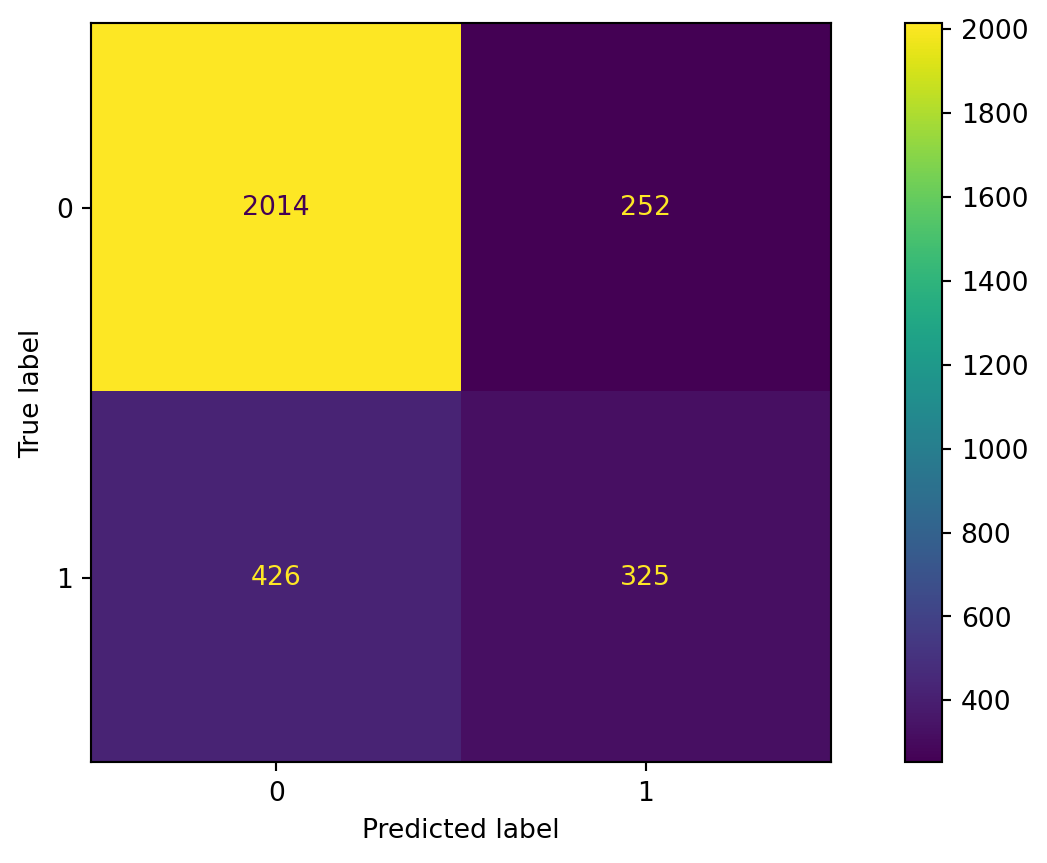
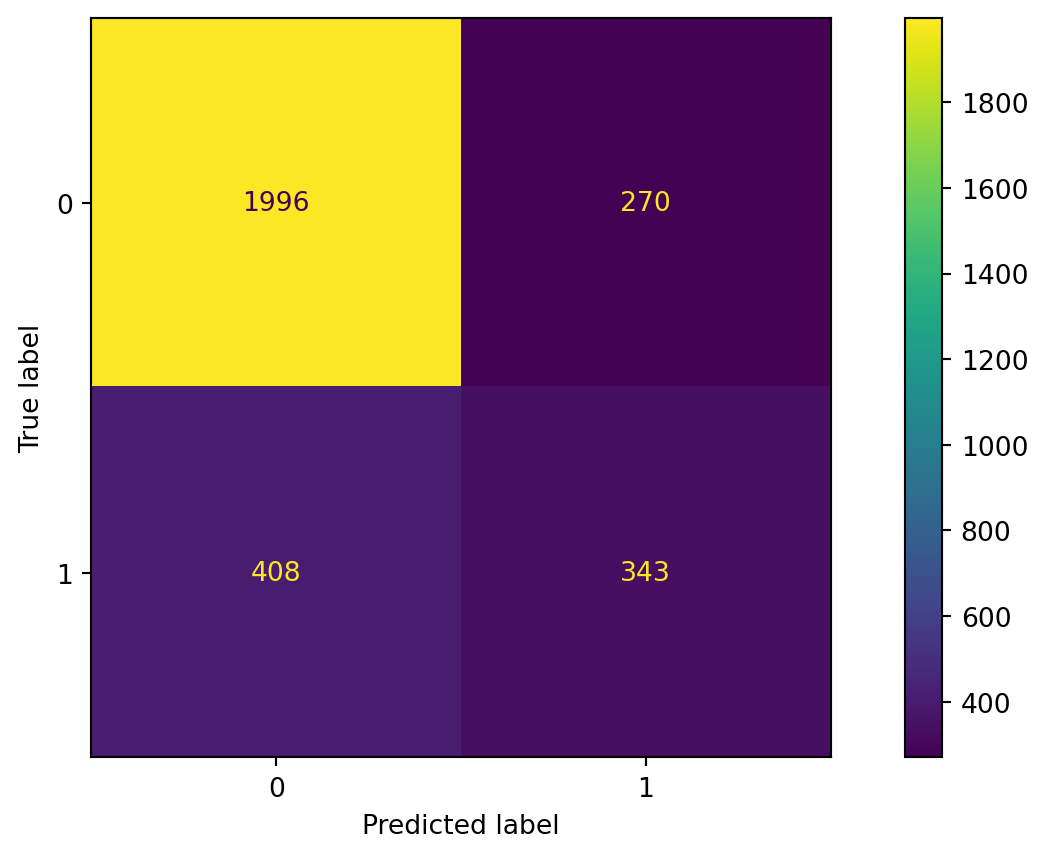
Update ensemble material
Include boosting

diff --git a/docs/Classification/EnsembleMethods.slides.html b/docs/Classification/EnsembleMethods.slides.html
@@ -230,7 +230,7 @@ Alan R. Vazquez
 <section id="load-the-libraries" class="slide level2">
 <h2>Load the libraries</h2>
 <p>Before we start, let’s import the data science libraries into Python.</p>
-<div id="a94a630a" class="cell" data-execution_count="1">
+<div id="87308f43" class="cell" data-execution_count="1">
 <div class="code-copy-outer-scaffold"><div class="sourceCode cell-code" id="cb1"><pre class="sourceCode numberSource python number-lines code-with-copy"><code class="sourceCode python"><span id="cb1-1"><a></a><span class="co"># Importing necessary libraries</span></span>
 <span id="cb1-2"><a></a><span class="im">import</span> pandas <span class="im">as</span> pd</span>
 <span id="cb1-3"><a></a><span class="im">import</span> matplotlib.pyplot <span class="im">as</span> plt</span>
@@ -238,10 +238,11 @@ Alan R. Vazquez
 <span id="cb1-5"><a></a><span class="im">from</span> sklearn.model_selection <span class="im">import</span> train_test_split</span>
 <span id="cb1-6"><a></a><span class="im">from</span> sklearn.tree <span class="im">import</span> DecisionTreeClassifier, plot_tree</span>
 <span id="cb1-7"><a></a><span class="im">from</span> sklearn.ensemble <span class="im">import</span> BaggingClassifier, RandomForestClassifier</span>
-<span id="cb1-8"><a></a><span class="im">from</span> sklearn.neighbors <span class="im">import</span> KNeighborsClassifier</span>
-<span id="cb1-9"><a></a><span class="im">from</span> sklearn.preprocessing <span class="im">import</span> StandardScaler</span>
-<span id="cb1-10"><a></a><span class="im">from</span> sklearn.metrics <span class="im">import</span> confusion_matrix, ConfusionMatrixDisplay </span>
-<span id="cb1-11"><a></a><span class="im">from</span> sklearn.metrics <span class="im">import</span> accuracy_score, recall_score, precision_score</span></code></pre></div><button title="Copy to Clipboard" class="code-copy-button"><i class="bi"></i></button></div>
+<span id="cb1-8"><a></a><span class="im">from</span> sklearn.ensemble <span class="im">import</span> GradientBoostingClassifier</span>
+<span id="cb1-9"><a></a><span class="im">from</span> sklearn.neighbors <span class="im">import</span> KNeighborsClassifier</span>
+<span id="cb1-10"><a></a><span class="im">from</span> sklearn.preprocessing <span class="im">import</span> StandardScaler</span>
+<span id="cb1-11"><a></a><span class="im">from</span> sklearn.metrics <span class="im">import</span> confusion_matrix, ConfusionMatrixDisplay </span>
+<span id="cb1-12"><a></a><span class="im">from</span> sklearn.metrics <span class="im">import</span> accuracy_score, recall_score, precision_score</span></code></pre></div><button title="Copy to Clipboard" class="code-copy-button"><i class="bi"></i></button></div>
 </div>
 <p>Here, we use specific functions from the <strong>pandas</strong>, <strong>matplotlib</strong>, <strong>seaborn</strong> and <strong>sklearn</strong> libraries in Python.</p>
 </section>
@@ -361,13 +362,13 @@ Alan R. Vazquez
 </section>
 <section id="read-the-dataset" class="slide level2">
 <h2>Read the dataset</h2>
-<div id="ffb93ef0" class="cell" data-execution_count="2">
+<div id="5d351bcd" class="cell" data-execution_count="2">
 <div class="code-copy-outer-scaffold"><div class="sourceCode cell-code" id="cb2"><pre class="sourceCode numberSource python number-lines code-with-copy"><code class="sourceCode python"><span id="cb2-1"><a></a><span class="co"># Load the data</span></span>
 <span id="cb2-2"><a></a>Adult_data <span class="op">=</span> pd.read_excel(<span class="st">'AdultReduced.xlsx'</span>)</span>
 <span id="cb2-3"><a></a></span>
 <span id="cb2-4"><a></a><span class="co"># Preview the data.</span></span>
 <span id="cb2-5"><a></a>Adult_data.head(<span class="dv">3</span>)</span></code></pre></div><button title="Copy to Clipboard" class="code-copy-button"><i class="bi"></i></button></div>
-<div class="cell-output cell-output-display" data-execution_count="2">
+<div class="cell-output cell-output-display" data-execution_count="59">
 <div>
 <style scoped="">
     .dataframe tbody tr th:only-of-type {
@@ -475,7 +476,7 @@ Alan R. Vazquez
 <li>education.num: number of years of education.</li>
 <li>hours.per.week: Number of work hours per week.</li>
 </ul>
-<div id="801c6eb2" class="cell" data-execution_count="3">
+<div id="d0c2b0e4" class="cell" data-execution_count="3">
 <div class="code-copy-outer-scaffold"><div class="sourceCode cell-code" id="cb3"><pre class="sourceCode numberSource python number-lines code-with-copy"><code class="sourceCode python"><span id="cb3-1"><a></a><span class="co"># Choose the predictors.</span></span>
 <span id="cb3-2"><a></a>X_full <span class="op">=</span> Adult_data.<span class="bu">filter</span>([<span class="st">'age'</span>, <span class="st">'sex'</span>, <span class="st">'race'</span>, <span class="st">'education.num'</span>, </span>
 <span id="cb3-3"><a></a>                            <span class="st">'hours.per.week'</span>])</span></code></pre></div><button title="Copy to Clipboard" class="code-copy-button"><i class="bi"></i></button></div>
@@ -485,7 +486,7 @@ Alan R. Vazquez
 <h2>Pre-processing for categorical predictors</h2>
 <p><br></p>
 <p>Unfortunately, bagging does not work with categorical predictors. We must transform them into dummy variables using the code below.</p>
-<div id="073490b5" class="cell" data-execution_count="4">
+<div id="1ef23662" class="cell" data-execution_count="4">
 <div class="code-copy-outer-scaffold"><div class="sourceCode cell-code" id="cb4"><pre class="sourceCode numberSource python number-lines code-with-copy"><code class="sourceCode python"><span id="cb4-1"><a></a><span class="co"># Turn categorical predictors into dummy variables.</span></span>
 <span id="cb4-2"><a></a>X_dummies <span class="op">=</span> pd.get_dummies(X_full[[<span class="st">'sex'</span>, <span class="st">'race'</span>]])</span>
 <span id="cb4-3"><a></a></span>
@@ -499,11 +500,11 @@ Alan R. Vazquez
 <section id="set-the-target-class" class="slide level2">
 <h2>Set the target class</h2>
 <p>Let’s set the <strong>target class</strong> and the <strong>reference class</strong> using the <code>get_dummies()</code> function.</p>
-<div id="b9c3ea4d" class="cell" data-execution_count="5">
+<div id="8f3df567" class="cell" data-execution_count="5">
 <div class="code-copy-outer-scaffold"><div class="sourceCode cell-code" id="cb5"><pre class="sourceCode numberSource python number-lines code-with-copy"><code class="sourceCode python"><span id="cb5-1"><a></a>Y <span class="op">=</span> Adult_data.<span class="bu">filter</span>([<span class="st">'income'</span>])</span>
 <span id="cb5-2"><a></a>Y_dummies <span class="op">=</span> pd.get_dummies(Y, dtype <span class="op">=</span> <span class="st">'int'</span>)</span>
 <span id="cb5-3"><a></a>Y_dummies.head(<span class="dv">4</span>)</span></code></pre></div><button title="Copy to Clipboard" class="code-copy-button"><i class="bi"></i></button></div>
-<div class="cell-output cell-output-display" data-execution_count="5">
+<div class="cell-output cell-output-display" data-execution_count="62">
 <div>
 <style scoped="">
     .dataframe tbody tr th:only-of-type {
@@ -559,12 +560,12 @@ Alan R. Vazquez
 <h2></h2>
 <p><br><br></p>
 <p>Here we’ll use the <strong>large</strong> target class. So, let’s use the corresponding column as our response variable.</p>
-<div id="f597a7ce" class="cell" data-execution_count="6">
+<div id="b007fa2d" class="cell" data-execution_count="6">
 <div class="code-copy-outer-scaffold"><div class="sourceCode cell-code" id="cb6"><pre class="sourceCode numberSource python number-lines code-with-copy"><code class="sourceCode python"><span id="cb6-1"><a></a><span class="co"># Choose target category.</span></span>
 <span id="cb6-2"><a></a>Y_target <span class="op">=</span> Y_dummies[<span class="st">'income_large'</span>]</span>
 <span id="cb6-3"><a></a></span>
 <span id="cb6-4"><a></a>Y_target.head()</span></code></pre></div><button title="Copy to Clipboard" class="code-copy-button"><i class="bi"></i></button></div>
-<div class="cell-output cell-output-display" data-execution_count="6">
+<div class="cell-output cell-output-display" data-execution_count="63">
 <pre><code>0    0
 1    0
 2    0
@@ -578,7 +579,7 @@ Name: income_large, dtype: int64</code></pre>
 <h2>Training and validation datasets</h2>
 <p><br></p>
 <p>To evaluate a model’s performance on unobserved data, we split the current dataset into training and validation datasets. To do this, we use <code>train_test_split()</code> from <strong>scikit-learn</strong>.</p>
-<div id="19b7ba04" class="cell" data-execution_count="7">
+<div id="14d9253e" class="cell" data-execution_count="7">
 <div class="code-copy-outer-scaffold"><div class="sourceCode cell-code" id="cb8"><pre class="sourceCode numberSource python number-lines code-with-copy"><code class="sourceCode python"><span id="cb8-1"><a></a><span class="co"># Split into training and validation</span></span>
 <span id="cb8-2"><a></a>X_train, X_valid, Y_train, Y_valid <span class="op">=</span> train_test_split(X_full, Y_target,</span>
 <span id="cb8-3"><a></a>                                                      stratify <span class="op">=</span> Y_target,</span>
@@ -591,7 +592,7 @@ Name: income_large, dtype: int64</code></pre>
 <p><br></p>
 <p>We define a bagging algorithm for classification using the <code>BaggingClassifier</code> function from <strong>scikit-learn</strong>.</p>
 <p>The <code>n_estimators</code> argument is the number of decision trees to generate in bagging. Ideally, it should be high, around 500.</p>
-<div id="77d7913d" class="cell" data-execution_count="8">
+<div id="67a5f78a" class="cell" data-execution_count="8">
 <div class="code-copy-outer-scaffold"><div class="sourceCode cell-code" id="cb9"><pre class="sourceCode numberSource python number-lines code-with-copy"><code class="sourceCode python"><span id="cb9-1"><a></a><span class="co"># Set the bagging algorithm.</span></span>
 <span id="cb9-2"><a></a>Baggingalgorithm <span class="op">=</span> BaggingClassifier(n_estimators <span class="op">=</span> <span class="dv">500</span>, </span>
 <span id="cb9-3"><a></a>                                     random_state <span class="op">=</span> <span class="dv">59227</span>)</span>
@@ -605,24 +606,24 @@ Name: income_large, dtype: int64</code></pre>
 <h2>Predictions from bagging</h2>
 <p><br><br><br></p>
 <p>Predict the classes using bagging on the validation dataset.</p>
-<div id="f9941f4a" class="cell" data-execution_count="9">
+<div id="3f1c9074" class="cell" data-execution_count="9">
 <div class="code-copy-outer-scaffold"><div class="sourceCode cell-code" id="cb10"><pre class="sourceCode numberSource python number-lines code-with-copy"><code class="sourceCode python"><span id="cb10-1"><a></a>predicted_class <span class="op">=</span> Baggingalgorithm.predict(X_valid)</span>
 <span id="cb10-2"><a></a></span>
 <span id="cb10-3"><a></a>predicted_class</span></code></pre></div><button title="Copy to Clipboard" class="code-copy-button"><i class="bi"></i></button></div>
-<div class="cell-output cell-output-display" data-execution_count="9">
-<pre><code>array([0, 0, 1, ..., 0, 0, 0])</code></pre>
+<div class="cell-output cell-output-display" data-execution_count="66">
+<pre><code>array([0, 0, 0, ..., 0, 0, 0])</code></pre>
 </div>
 </div>
 </section>
 <section id="confusion-matrix" class="slide level2">
 <h2>Confusion matrix</h2>
-<div id="69201ad5" class="cell" data-execution_count="10">
+<div id="bb817c82" class="cell" data-execution_count="10">
 <div class="code-copy-outer-scaffold"><div class="sourceCode cell-code" id="cb12"><pre class="sourceCode numberSource python number-lines code-with-copy"><code class="sourceCode python"><span id="cb12-1"><a></a>cm <span class="op">=</span> confusion_matrix(Y_valid, predicted_class)</span>
 <span id="cb12-2"><a></a>ConfusionMatrixDisplay(cm).plot()</span></code></pre></div><button title="Copy to Clipboard" class="code-copy-button"><i class="bi"></i></button></div>
 <div class="cell-output cell-output-display">
 <div class="quarto-figure quarto-figure-center">
 <figure>
-<p><img data-src="EnsembleMethods_files/figure-revealjs/cell-11-output-1.png" class="quarto-figure quarto-figure-center" width="524" height="432"></p>
+<p><img data-src="EnsembleMethods_files/figure-revealjs/cell-11-output-1.png" class="quarto-figure quarto-figure-center" width="524" height="429"></p>
 </figure>
 </div>
 </div>
@@ -632,7 +633,7 @@ Name: income_large, dtype: int64</code></pre>
 <h2>Accuracy</h2>
 <p><br><br></p>
 <p>The accuracy of the bagging classifier is 78%.</p>
-<div id="c97e8049" class="cell" data-execution_count="11">
+<div id="d0f355e4" class="cell" data-execution_count="11">
 <div class="code-copy-outer-scaffold"><div class="sourceCode cell-code" id="cb13"><pre class="sourceCode numberSource python number-lines code-with-copy"><code class="sourceCode python"><span id="cb13-1"><a></a><span class="co"># Compute accuracy.</span></span>
 <span id="cb13-2"><a></a>accuracy <span class="op">=</span> accuracy_score(Y_valid, predicted_class)</span>
 <span id="cb13-3"><a></a></span>
@@ -647,19 +648,19 @@ Name: income_large, dtype: int64</code></pre>
 <h2>A single deep tree</h2>
 <p><br><br></p>
 <p>To compare the bagging, let’s use a single deep tree.</p>
-<div id="386b1603" class="cell" data-execution_count="12">
+<div id="4b686ee6" class="cell" data-execution_count="12">
 <div class="code-copy-outer-scaffold"><div class="sourceCode cell-code" id="cb15"><pre class="sourceCode numberSource python number-lines code-with-copy"><code class="sourceCode python"><span id="cb15-1"><a></a>clf_simple <span class="op">=</span> DecisionTreeClassifier(min_samples_leaf <span class="op">=</span> <span class="dv">5</span>, ccp_alpha<span class="op">=</span><span class="fl">0.0</span>, </span>
 <span id="cb15-2"><a></a>                                    random_state<span class="op">=</span><span class="dv">507134</span>)</span>
 <span id="cb15-3"><a></a></span>
 <span id="cb15-4"><a></a>clf_simple.fit(X_train, Y_train)</span></code></pre></div><button title="Copy to Clipboard" class="code-copy-button"><i class="bi"></i></button></div>
 </div>
 <p>Let’s compute the accuracy of the pruned tree.</p>
-<div id="514685d2" class="cell" data-execution_count="13">
+<div id="5fcd11cd" class="cell" data-execution_count="13">
 <div class="code-copy-outer-scaffold"><div class="sourceCode cell-code" id="cb16"><pre class="sourceCode numberSource python number-lines code-with-copy"><code class="sourceCode python"><span id="cb16-1"><a></a>single_tree_Y_pred <span class="op">=</span> clf_simple.predict(X_valid)</span>
 <span id="cb16-2"><a></a>accuracy <span class="op">=</span> accuracy_score(Y_valid, single_tree_Y_pred)</span>
 <span id="cb16-3"><a></a><span class="bu">print</span>( <span class="bu">round</span>(accuracy, <span class="dv">2</span>) )</span></code></pre></div><button title="Copy to Clipboard" class="code-copy-button"><i class="bi"></i></button></div>
 <div class="cell-output cell-output-stdout">
-<pre><code>0.78</code></pre>
+<pre><code>0.79</code></pre>
 </div>
 </div>
 </section>
@@ -747,7 +748,7 @@ Name: income_large, dtype: int64</code></pre>
 <h2>Random Forest in Python</h2>
 <p><br></p>
 <p>In Python, we define a RandomForest algorithm for classification using the <code>RandomForestClassifier</code> function from <strong>scikit-learn</strong>. The <code>n_estimators</code> argument is the number of decision trees to generate in the RandomForest, and <code>random_state</code> allows you to reprudce the results.</p>
-<div id="47622c3a" class="cell" data-execution_count="14">
+<div id="637bdeeb" class="cell" data-execution_count="14">
 <div class="code-copy-outer-scaffold"><div class="sourceCode cell-code" id="cb18"><pre class="sourceCode numberSource python number-lines code-with-copy"><code class="sourceCode python"><span id="cb18-1"><a></a><span class="co"># Set the bagging algorithm.</span></span>
 <span id="cb18-2"><a></a>RFalgorithm <span class="op">=</span> RandomForestClassifier(n_estimators <span class="op">=</span> <span class="dv">500</span>, </span>
 <span id="cb18-3"><a></a>                                     max_features <span class="op">=</span> <span class="st">'sqrt'</span>,</span>
@@ -760,7 +761,7 @@ Name: income_large, dtype: int64</code></pre>
 <section id="confusion-matrix-1" class="slide level2">
 <h2>Confusion matrix</h2>
 <p>Evaluate the performance of random forest.</p>
-<div id="ca63391a" class="cell" data-execution_count="15">
+<div id="c5cb071a" class="cell" data-execution_count="15">
 <details class="code-fold">
 <summary>Code</summary>
 <div class="code-copy-outer-scaffold"><div class="sourceCode cell-code" id="cb19"><pre class="sourceCode numberSource python number-lines code-with-copy"><code class="sourceCode python"><span id="cb19-1"><a></a><span class="co"># Predict class.</span></span>
@@ -775,7 +776,7 @@ Name: income_large, dtype: int64</code></pre>
 <div class="cell-output cell-output-display">
 <div class="quarto-figure quarto-figure-center">
 <figure>
-<p><img data-src="EnsembleMethods_files/figure-revealjs/cell-16-output-1.png" class="quarto-figure quarto-figure-center" width="524" height="429"></p>
+<p><img data-src="EnsembleMethods_files/figure-revealjs/cell-16-output-1.png" class="quarto-figure quarto-figure-center" width="524" height="433"></p>
 </figure>
 </div>
 </div>
@@ -785,7 +786,7 @@ Name: income_large, dtype: int64</code></pre>
 <h2>Accuracy</h2>
 <p><br><br></p>
 <p>The accuracy of the random forest classifier is 79%.</p>
-<div id="375ceec7" class="cell" data-execution_count="16">
+<div id="59dae4e5" class="cell" data-execution_count="16">
 <div class="code-copy-outer-scaffold"><div class="sourceCode cell-code" id="cb20"><pre class="sourceCode numberSource python number-lines code-with-copy"><code class="sourceCode python"><span id="cb20-1"><a></a><span class="co"># Compute accuracy.</span></span>
 <span id="cb20-2"><a></a>accuracy <span class="op">=</span> accuracy_score(Y_valid, RF_predicted)</span>
 <span id="cb20-3"><a></a></span>
@@ -888,6 +889,59 @@ Name: income_large, dtype: int64</code></pre>
 <p><br></p>
 
 <img data-src="images/clipboard-3805820570.png" class="quarto-figure quarto-figure-center r-stretch"><p><a href="https://towardsdatascience.com/understanding-adaboost-for-decision-tree-ff8f07d2851" class="uri">https://towardsdatascience.com/understanding-adaboost-for-decision-tree-ff8f07d2851</a></p>
+</section>
+<section id="boosting-in-python" class="slide level2">
+<h2>Boosting in Python</h2>
+<div style="font-size: 90%;">
+<p>In Python, we define a boosting algorithm for classification using the <code>GradientBoostingClassifier</code> function from <strong>scikit-learn</strong>. The <code>n_estimators</code> argument specifies the number of boosting stages (i.e., the number of trees built sequentially), the <code>learning_rate</code> controls how much each tree contributes to the final model, and <code>max_depth</code> limits the depth of each individual decision tree.</p>
+</div>
+<div id="2e43fdd5" class="cell" data-execution_count="17">
+<div class="code-copy-outer-scaffold"><div class="sourceCode cell-code" id="cb22"><pre class="sourceCode numberSource python number-lines code-with-copy"><code class="sourceCode python"><span id="cb22-1"><a></a><span class="co"># Set the boosting algorithm.</span></span>
+<span id="cb22-2"><a></a>GBalgorithm <span class="op">=</span> GradientBoostingClassifier(learning_rate <span class="op">=</span> <span class="fl">0.1</span>,</span>
+<span id="cb22-3"><a></a>                                    n_estimators <span class="op">=</span> <span class="dv">1000</span>,</span>
+<span id="cb22-4"><a></a>                                    max_depth <span class="op">=</span> <span class="dv">3</span>,</span>
+<span id="cb22-5"><a></a>                                    random_state <span class="op">=</span> <span class="dv">59227</span>)</span>
+<span id="cb22-6"><a></a><span class="co"># Train the boosting algorithm.</span></span>
+<span id="cb22-7"><a></a>GBalgorithm.fit(X_train, Y_train)</span></code></pre></div><button title="Copy to Clipboard" class="code-copy-button"><i class="bi"></i></button></div>
+</div>
+</section>
+<section id="confusion-matrix-2" class="slide level2">
+<h2>Confusion matrix</h2>
+<p>Evaluate the performance of a gradient boosting algorithm.</p>
+<div id="d01c127b" class="cell" data-execution_count="18">
+<details class="code-fold">
+<summary>Code</summary>
+<div class="code-copy-outer-scaffold"><div class="sourceCode cell-code" id="cb23"><pre class="sourceCode numberSource python number-lines code-with-copy"><code class="sourceCode python"><span id="cb23-1"><a></a><span class="co"># Predict class.</span></span>
+<span id="cb23-2"><a></a>GB_predicted <span class="op">=</span> GBalgorithm.predict(X_valid)</span>
+<span id="cb23-3"><a></a></span>
+<span id="cb23-4"><a></a><span class="co"># Compute confusion matrix.</span></span>
+<span id="cb23-5"><a></a>cm <span class="op">=</span> confusion_matrix(Y_valid, GB_predicted)</span>
+<span id="cb23-6"><a></a></span>
+<span id="cb23-7"><a></a><span class="co"># Visualize the matrix.</span></span>
+<span id="cb23-8"><a></a>ConfusionMatrixDisplay(cm).plot()</span></code></pre></div><button title="Copy to Clipboard" class="code-copy-button"><i class="bi"></i></button></div>
+</details>
+<div class="cell-output cell-output-display">
+<div class="quarto-figure quarto-figure-center">
+<figure>
+<p><img data-src="EnsembleMethods_files/figure-revealjs/cell-19-output-1.png" class="quarto-figure quarto-figure-center" width="524" height="429"></p>
+</figure>
+</div>
+</div>
+</div>
+</section>
+<section id="accuracy-2" class="slide level2">
+<h2>Accuracy</h2>
+<p><br><br></p>
+<p>The accuracy of the gradient boosting classifier is 79%.</p>
+<div id="2d525df9" class="cell" data-execution_count="19">
+<div class="code-copy-outer-scaffold"><div class="sourceCode cell-code" id="cb24"><pre class="sourceCode numberSource python number-lines code-with-copy"><code class="sourceCode python"><span id="cb24-1"><a></a>accuracy <span class="op">=</span> accuracy_score(Y_valid, GB_predicted)</span>
+<span id="cb24-2"><a></a></span>
+<span id="cb24-3"><a></a><span class="co"># Show accuracy.</span></span>
+<span id="cb24-4"><a></a><span class="bu">print</span>( <span class="bu">round</span>(accuracy, <span class="dv">2</span>) )</span></code></pre></div><button title="Copy to Clipboard" class="code-copy-button"><i class="bi"></i></button></div>
+<div class="cell-output cell-output-stdout">
+<pre><code>0.8</code></pre>
+</div>
+</div>
 </section>
 <section id="section-9" class="slide level2">
 <h2></h2>
